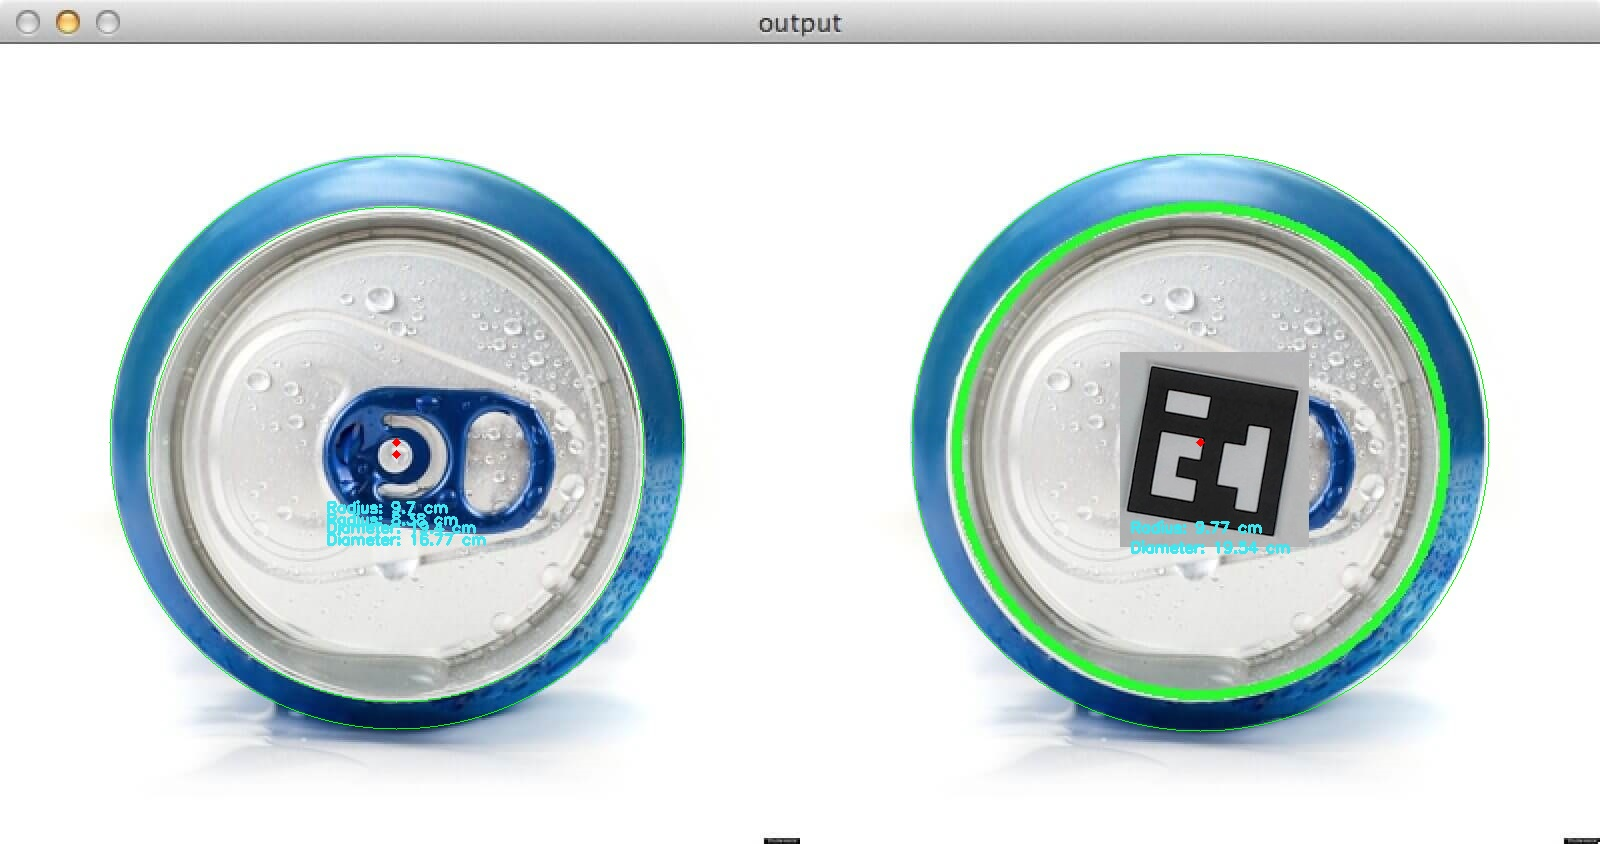
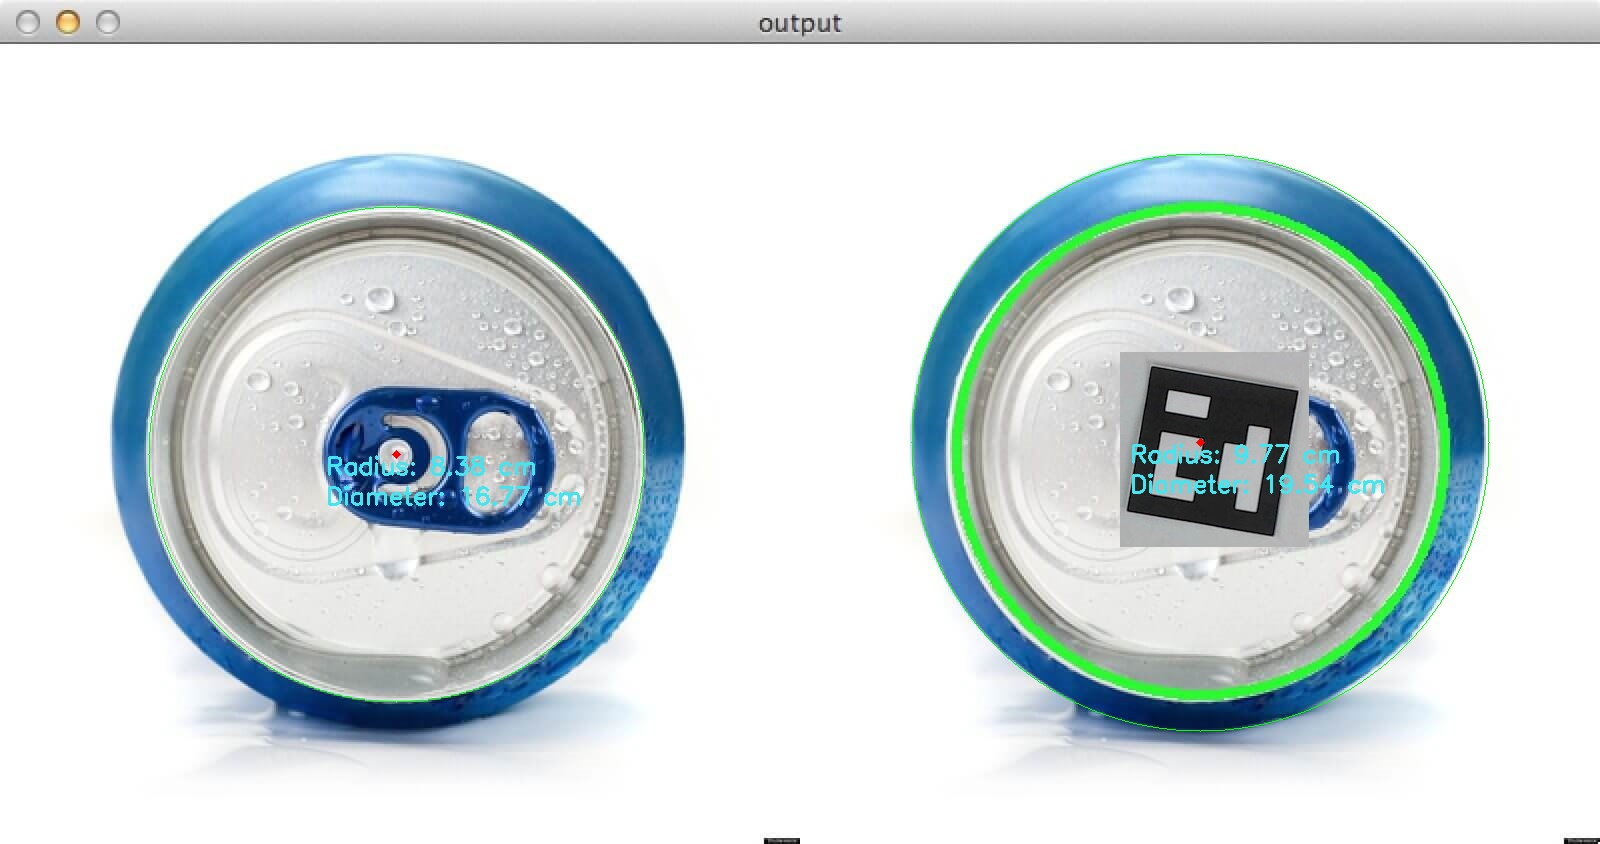
circle_detection returns radius values as well + iterative hough transform

diff --git a/generate_image.py b/generate_image.py
@@ -56,7 +56,7 @@ def generate_image_circle(opencv_image):
         pixel_cm_ratio = aruco_perimeter / 20
         grayimage = cv2.cvtColor(opencv_image, cv2.COLOR_BGR2GRAY)
         blurimage = cv2.GaussianBlur(grayimage, (21, 21), cv2.BORDER_DEFAULT)
-        circle_x_y = [[0,0]]
+        circle_x_y = [[0,0,0]]
         radii = np.arange(0, 310, 10)
         for idx in range(len(radii)-1):
             # print(" 1st loop")
@@ -73,43 +73,38 @@ def generate_image_circle(opencv_image):
                 # print("innerloop")
                 radius = i[2] / pixel_cm_ratio
                 diameter = radius * 2
-                coord =[i[0],i[1]]
 
-                offset1 = 50 + (20 * count)
-                offset2 = offset1 + 20
+                circle_data =[i[0],i[1],round(radius,2)]
+                offset1 = 20
+                offset2 = offset1 + 30
 
                 for j in circle_x_y:
-                    x_range = range(j[0] - 10, j[0] + 10,1)
-                    y_range = range(j[1] - 10, j[1] + 10,1)
-                    if (coord[0] in x_range) and (coord[1] in y_range):
+                    x_range = range(j[0] - 20, j[0] + 20,1)
+                    y_range = range(j[1] - 20, j[1] + 20,1)
+                    if (circle_data[0] in x_range) and (circle_data[1] in y_range):
                         flag = "false"
                     else:
                         flag = 'true'
 
                 if flag == 'true':
-                    circle_x_y.append(coord)
+                    circle_x_y.append(circle_data)
                     cv2.circle(image_copy, (i[0], i[1]), i[2], (0, 255, 0), 1)
                     cv2.circle(image_copy, (i[0], i[1]), 2, (0, 0, 255), 3)
                     cv2.putText(image_copy, "Radius: " + str(round(radius, 2)) + ' cm', (i[0] - 70, i[1] + offset1),
-                                cv2.FONT_HERSHEY_SIMPLEX, .5, (241, 231, 64), 2)
+                                cv2.FONT_HERSHEY_SIMPLEX, .8, (241, 231, 64), 2)
                     cv2.putText(image_copy, "Diameter: " + str(round(diameter, 2)) + ' cm', (i[0] - 70, i[1] + offset2),
-                                cv2.FONT_HERSHEY_SIMPLEX, .5, (241, 231, 64), 2)
+                                cv2.FONT_HERSHEY_SIMPLEX, .8, (241, 231, 64), 2)
 
-                # if coord not in circle_x_y:
-                #     circle_x_y.append(coord)
-                #     cv2.circle(image_copy, (i[0], i[1]), i[2], (0, 255, 0), 1)
-                #     cv2.circle(image_copy, (i[0], i[1]), 2, (0, 0, 255), 3)
-                #     cv2.putText(image_copy, "Radius: " + str(round(radius, 2)) + ' cm', (i[0] - 70, i[1] + offset1),
-                #                 cv2.FONT_HERSHEY_SIMPLEX, .5, (241, 231, 64), 2)
-                #     cv2.putText(image_copy, "Diameter: " + str(round(diameter, 2)) + ' cm', (i[0] - 70, i[1] + offset2),
-                #                 cv2.FONT_HERSHEY_SIMPLEX, .5, (241, 231, 64), 2)
                 count = count +1
                 print(circle_x_y)
 
         no_of_circle = len(circle_x_y) -1
-        return (image_copy,no_of_circle)
+        circle_x_y.pop(0)
+        for i in circle_x_y:
+            print(i)
+        return (image_copy,no_of_circle,circle_x_y)
 
-    return (image_copy, -1)
+    return (image_copy, -1,None)
 
     #     all_circles = cv2.HoughCircles(blurimage, cv2.HOUGH_GRADIENT, 0.9, 120)
     #     print(type(all_circles))

diff --git a/test_circledetection.py b/test_circledetection.py
@@ -6,10 +6,10 @@ import json
 from flask import jsonify
 url = "http://127.0.0.1:5000/object_measurement_circle"
 
-my_img = {'image': open('Testimages\image_with_aruco_button.jpg', 'rb')}
+my_img = {'image': open('Testimages\imagewithcircle.jpg', 'rb')}
 r = requests.post(url, files=my_img)
 js = r.json()
-
+print("CLIENT >>>")
 if(js['no_of_circles']==-1):
     print("No Aruco Marker was spoted")
 elif(js['no_of_circles']==0):
@@ -17,6 +17,11 @@ elif(js['no_of_circles']==0):
 else:
     imagereturn= js['image']
     imdata = base64.b64decode(imagereturn)
+    circle_radius = js ['radius']
+    count = 1
+    for i in circle_radius:
+        print("Radius of Circle", count," : ",i)
+        count +=1
     print(type(imdata))
     # image = pickle.loads(imdata)
     # pilimage =Image.fromarray(image[...,::-1])

diff --git a/app.py b/app.py
@@ -45,14 +45,18 @@ def object_measurement_circle():
     w = image.width
     h = image.height
 
-    opencv_image,circle_detected = generate_image_circle(opencv_image)
+    opencv_image,circle_detected,circle_x_y = generate_image_circle(opencv_image)
+
     print(circle_detected)
+    radius = []
+    for i in circle_x_y:
+        radius.append(i[2])
 
     retval,image2str = cv2.imencode('.jpg',opencv_image)
     image_encode = base64.b64encode(image2str).decode()
     print("function was accessed")
 
-    return jsonify({'message': 'success', 'size': [w,h],'image':image_encode,'no_of_circles':circle_detected})
+    return jsonify({'message': 'success', 'size': [w,h],'image':image_encode,'no_of_circles':circle_detected,'radius':radius})
 
 
 @letsmeasure_app.route('/colordetection', methods =['POST'])
